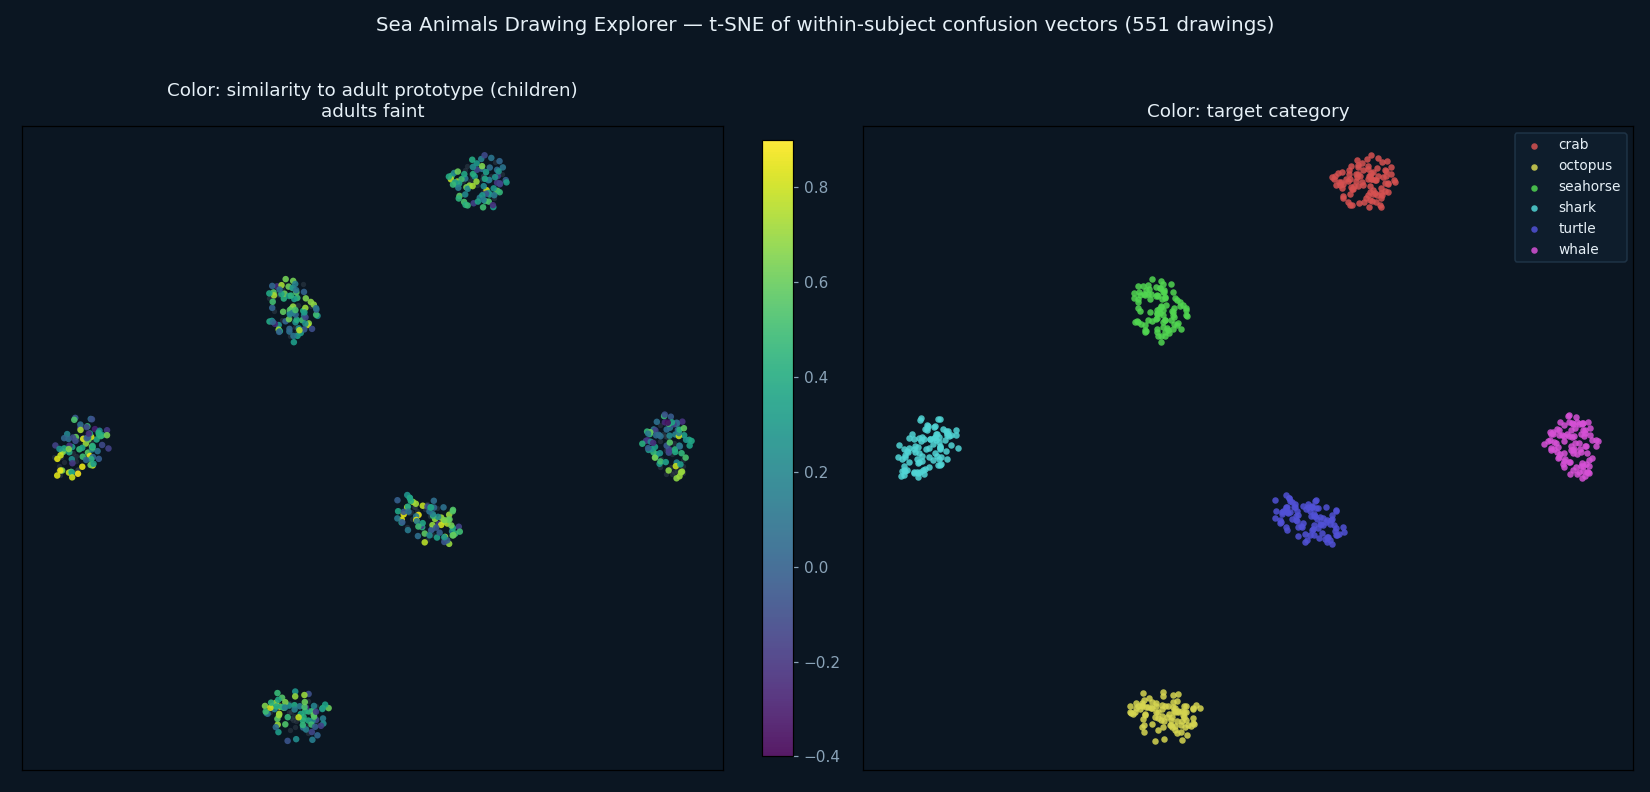
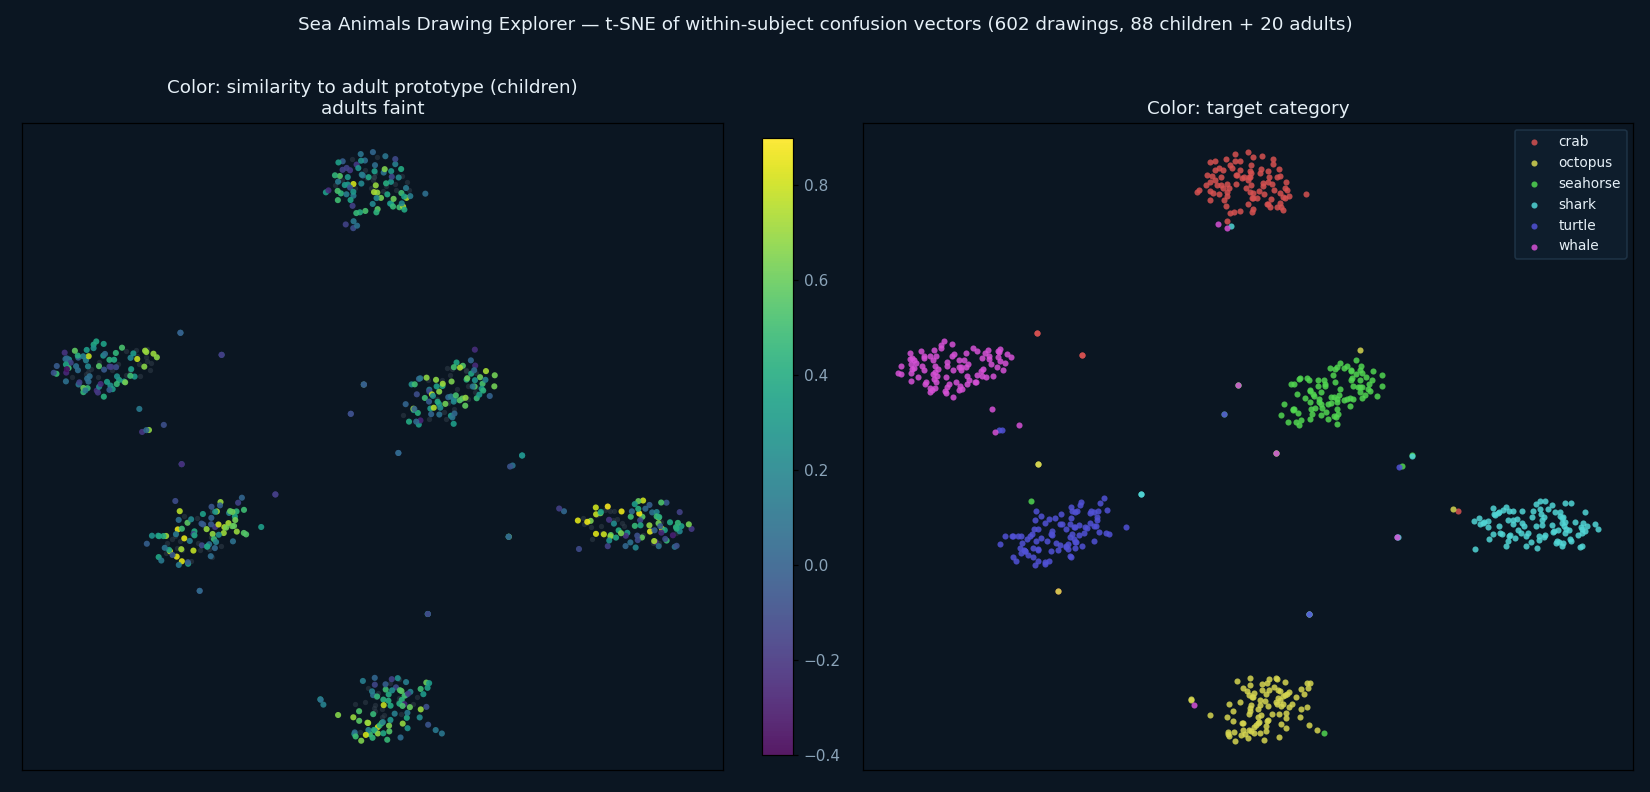
Include the full clean drawing set (602: 88 children + 20 adults)
The first build over-filtered by requiring a complete 6-category
within-subject confusion vector, dropping to 551 drawings / 74 children.
The paper's standard filter is just draw_exists==1 & draw_interference==0,
which is 603 drawings (482 from 88 children + 120 from 20 adults); 602 have
an image in Mongo.

- build_data.py keeps all clean drawings; missing confusion slots (a child
  who didn't draw all six) are zero-filled for the t-SNE layout, and conf /
  conf_with are null for the 3 children who drew only one category.
- index.html: confusion color mode now faints null points (like recog does
  for adults); card and footer stats handle null confusion.

diff --git a/index.html b/index.html
@@ -185,11 +185,11 @@ function passes(i){
 
 // ---------- color mode ----------
 let colorMode="recog";
-const NULLABLE = {recog:1};                       // modes where missing data -> faint
+const NULLABLE = {recog:1, conf:1};               // modes where missing data -> faint
 function colorOf(i){
   switch(colorMode){
     case "recog": { const v=D.recog[i]; return v==null?null:ramp(VIRIDIS, recogNorm(v)); }
-    case "conf":  return ramp(MAGMA, (D.conf[i]-0.2)/0.6);
+    case "conf":  { const v=D.conf[i];  return v==null?null:ramp(MAGMA, (v-0.2)/0.6); }
     case "age":   return hsl(lerp(220,12,(Math.min(D.age[i],12)-3)/9), 70, 58);
     case "cat":   return catColor(D.cat[i], D.categories.length);
   }
@@ -205,7 +205,7 @@ function draw(){
   if(nullable){
     ctx.globalAlpha=0.18; ctx.fillStyle=NODATA;
     for(let i=0;i<D.n;i++){
-      if(!passes(i) || D.recog[i]!=null) continue;
+      if(!passes(i) || D[colorMode][i]!=null) continue;
       const [sx,sy]=worldToScreen(D.x[i],D.y[i]);
       if(sx<-4||sy<-4||sx>w+4||sy>h+4) continue;
       ctx.beginPath(); ctx.arc(sx,sy,r,0,6.283); ctx.fill();
@@ -248,16 +248,18 @@ function showCard(i){
   document.getElementById("cardImg").src = IMG_BASE + D.draw_dir + "/" + D.file[i];
   const who = D.is_adult[i] ? "adult" : ("age " + D.age[i]);
   document.getElementById("cardCat").textContent = D.categories[D.cat[i]] + " · " + who;
-  const confWith = D.categories[D.conf_with[i]];
   const recog = D.recog[i]==null
     ? `<tr><td class="k" colspan="2">adult — defines the prototype</td></tr>`
     : `<tr><td class="k">cosine to adult</td><td class="v">${fmt(D.recog[i],3)}</td></tr>`;
+  const conf = D.conf_with[i]==null
+    ? `<tr><td class="k" colspan="2">drew only this category</td></tr>`
+    : `<tr><td class="k">most like their</td><td class="v"><span class="pill">${D.categories[D.conf_with[i]]}</span></td></tr>
+       <tr><td class="k">confusion prob</td><td class="v">${fmt(D.conf[i],2)}</td></tr>`;
   document.getElementById("cardTbl").innerHTML = `
     <tr class="sec"><td colspan="2">Recognizability</td></tr>
     ${recog}
     <tr class="sec"><td colspan="2">Within-subject confusion</td></tr>
-    <tr><td class="k">most like their</td><td class="v"><span class="pill">${confWith}</span></td></tr>
-    <tr><td class="k">confusion prob</td><td class="v">${fmt(D.conf[i],2)}</td></tr>
+    ${conf}
     <tr class="sec"><td colspan="2">Drawing</td></tr>
     <tr><td class="k"># strokes</td><td class="v">${D.strokes[i]==null?'—':D.strokes[i]}</td></tr>
     <tr><td class="k">draw time (s)</td><td class="v">${fmt(D.duration[i],1)}</td></tr>
@@ -289,12 +291,13 @@ function buildLegend(){
 
 // ---------- visible stat ----------
 function updateStat(){
-  let n=0, rs=0, rn=0, cs=0, kids=0;
-  for(let i=0;i<D.n;i++){ if(!passes(i))continue; n++; cs+=D.conf[i];
+  let n=0, rs=0, rn=0, cs=0, cn=0, kids=0;
+  for(let i=0;i<D.n;i++){ if(!passes(i))continue; n++;
     if(!D.is_adult[i])kids++;
-    if(D.recog[i]!=null){rs+=D.recog[i];rn++;} }
+    if(D.recog[i]!=null){rs+=D.recog[i];rn++;}
+    if(D.conf[i]!=null){cs+=D.conf[i];cn++;} }
   let s=`${n.toLocaleString()} drawings shown · ${kids} children / ${n-kids} adults`;
-  s+=` · mean recog ${rn?(rs/rn).toFixed(2):'—'} · mean confusion ${n?(cs/n).toFixed(2):'—'}`;
+  s+=` · mean recog ${rn?(rs/rn).toFixed(2):'—'} · mean confusion ${cn?(cs/cn).toFixed(2):'—'}`;
   document.getElementById("visStat").textContent=s;
 }
 

diff --git a/build_data.py b/build_data.py
@@ -78,19 +78,16 @@ def fnum(v):
 def main():
     os.makedirs(DRAW_DIR, exist_ok=True)
 
-    # ---- load tidy metadata, keep clean drawings with a full confusion vec --
+    # ---- load tidy metadata, keep the standard clean set --------------------
+    # (the paper's filter: draw_exists == 1, draw_interference == 0)
     rows = []
     with open(TIDY_CSV) as f:
         for r in csv.DictReader(f):
-            if not (r["draw_exists"] == "1" and r["draw_interference"] == "0"
+            if (r["draw_exists"] == "1" and r["draw_interference"] == "0"
                     and r["target_category"] in CAT_IDX):
-                continue
-            off = [fnum(r[f"draw_probability_{c}"])
-                   for c in CATEGORIES if c != r["target_category"]]
-            if any(v is None for v in off):
-                continue  # incomplete confusion vector -> can't lay out
-            rows.append(r)
-    print(f"{len(rows)} clean drawings with full confusion vectors")
+                rows.append(r)
+    nk = len(set(r["participant_id"] for r in rows if r["is_child"] == "True"))
+    print(f"{len(rows)} clean drawings ({nk} unique children + adults)")
 
     # ---- pull latest finalImage per (participant, category) from Mongo ----
     col = MongoClient(mongo_uri(), serverSelectionTimeoutMS=10000)[DB_NAME][COLL]
@@ -128,14 +125,24 @@ def main():
         fname = f"{cat}_{pid}.png"
         bg.convert("RGB").save(os.path.join(DRAW_DIR, fname), "PNG")
 
+        # within-subject confusion vector: off-target slots from the toself
+        # softmax. Missing slots (child didn't draw that category) -> 0 so the
+        # drawing can still be laid out alongside the rest.
         vec = [0.0] * len(CATEGORIES)
+        has_conf = False
         for c in CATEGORIES:
             if c != cat:
-                vec[CAT_IDX[c]] = fnum(r[f"draw_probability_{c}"])
+                v = fnum(r[f"draw_probability_{c}"])
+                if v is not None:
+                    vec[CAT_IDX[c]] = v
+                    has_conf = True
         layout.append(vec)
-        # most-confusable-with = argmax over the off-target slots
-        ci = max((i for i in range(len(CATEGORIES)) if i != CAT_IDX[cat]),
-                 key=lambda i: vec[i])
+        # most-confusable-with = argmax over off-target slots (None if no data)
+        if has_conf:
+            ci = max((i for i in range(len(CATEGORIES)) if i != CAT_IDX[cat]),
+                     key=lambda i: vec[i])
+        else:
+            ci = None
 
         P["file"].append(fname)
         P["cat"].append(CAT_IDX[cat])
@@ -143,7 +150,7 @@ def main():
         P["is_adult"].append(1 if r["is_adult"] == "True" else 0)
         rc = fnum(r["draw_cossim_adults"])
         P["recog"].append(round(rc, 4) if rc is not None else None)
-        P["conf"].append(round(vec[ci], 4))
+        P["conf"].append(round(vec[ci], 4) if ci is not None else None)
         P["conf_with"].append(ci)
         P["strokes"].append(fnum(r["num_strokes"]))
         P["duration"].append(round(fnum(r["draw_duration"]) or 0, 1))

diff --git a/README.md b/README.md
@@ -1,6 +1,6 @@
 # Sea Animals Drawing Explorer
 
-An interactive web page for exploring **551 children's and adults' drawings** of
+An interactive web page for exploring **602 children's and adults' drawings** of
 six sea animals (crab, octopus, seahorse, shark, turtle, whale), collected at the
 Birch Aquarium for the [`sea-animals-draw`](https://github.com/vislearnlab/sea-animals-draw)
 study. Built in the style of the
@@ -38,7 +38,7 @@ python3 -m http.server 8000
 
 - `index.html` — the self-contained explorer (no dependencies, no build step).
 - `points.json` — t-SNE layout + per-drawing scores consumed by the page.
-- `drawings/` — the 551 drawing PNGs (150×150, flattened onto white).
+- `drawings/` — the 602 drawing PNGs (150×150, flattened onto white).
 - `build_data.py` — regenerates `drawings/` + `points.json` (see below).
 
 ## Rebuilding the data
@@ -61,8 +61,9 @@ Credentials can instead go in an `auth.txt` file (first line = connection
 string); it is git-ignored.
 
 Only clean drawings are included (`draw_exists == 1`, `draw_interference == 0`)
-that also have a complete within-subject confusion vector — 431 children + 120
-adults = 551 drawings.
+that have a drawing image in Mongo — 482 drawings from 88 children + 120 from
+20 adults = 602 drawings. Where a child didn't draw all six categories, the
+missing confusion slots are zero-filled for the t-SNE layout.
 
 ## Data & paper
 